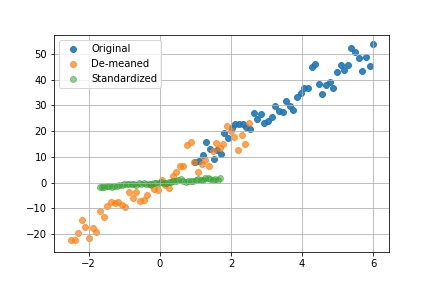
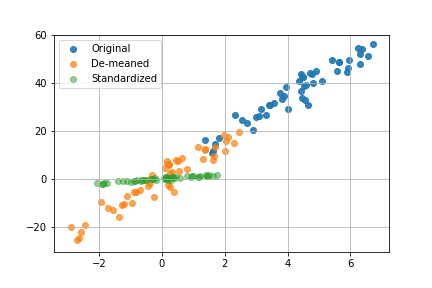
Demean vs. Standardized

diff --git a/Demean_Standardized.py b/Demean_Standardized.py
@@ -9,7 +9,8 @@ import numpy as np
 import matplotlib.pyplot as plt
 
 num_point = 50
-x = np.linspace(1, 6, num_point)
+x = np.sort(np.random.rand(num_point) * 6.0 + 1.0)
+#x = np.linspace(1, 6, num_point)
 noise = np.random.randn(num_point) * 3.0
 
 # let's draw: y = ax + b + noise
